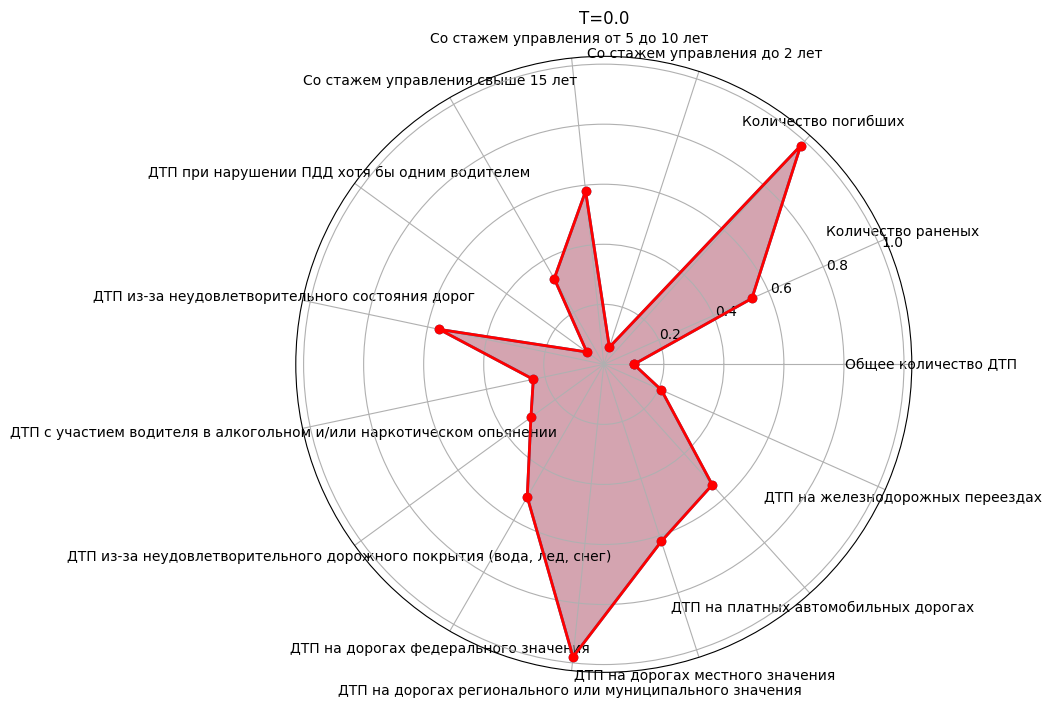
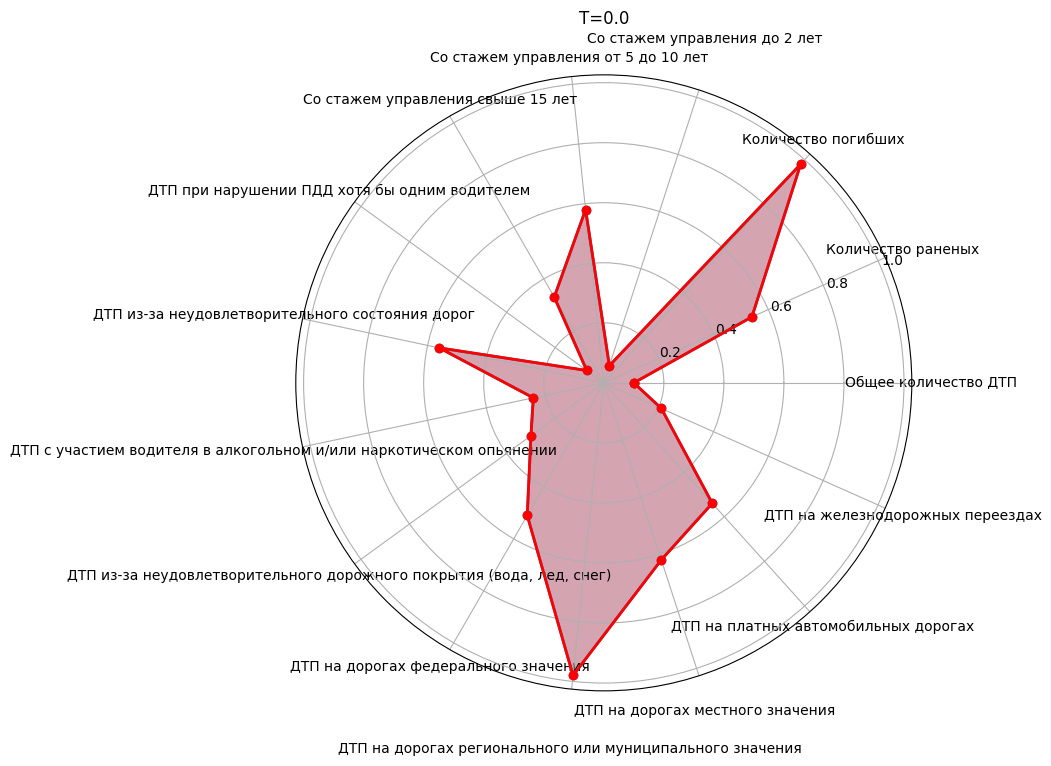
fixes

diff --git a/service.py b/service.py
@@ -6,7 +6,7 @@ from scipy.integrate import odeint
 labelMap = {'U1': 'Общее количество ДТП',
             'U2': 'Количество раненых',
             'U3': 'Количество погибших',
-            'U4': 'Со стажем управления до 2 лет',
+            'U4': 'Со стажем управления до 2 лет\n\n\n\n',
             'U5': 'Со стажем управления от 5 до 10 лет',
             'U6': 'Со стажем управления свыше 15 лет',
             'U7': 'ДТП при нарушении ПДД хотя бы одним водителем',
@@ -14,8 +14,8 @@ labelMap = {'U1': 'Общее количество ДТП',
             'U9': 'ДТП с участием водителя в алкогольном и/или наркотическом опьянении',
             'U10': 'ДТП из-за неудовлетворительного дорожного покрытия (вода, лед, снег)',
             'U11': 'ДТП на дорогах федерального значения',
-            'U12': 'ДТП на дорогах регионального или муниципального значения',
-            'U13': 'ДТП на дорогах местного значения',
+            'U12': '\n\n\n\n\nДТП на дорогах регионального или муниципального значения',
+            'U13': '\n\nДТП на дорогах местного значения',
             'U14': 'ДТП на платных автомобильных дорогах',
             'U15': 'ДТП на железнодорожных переездах'}
 
